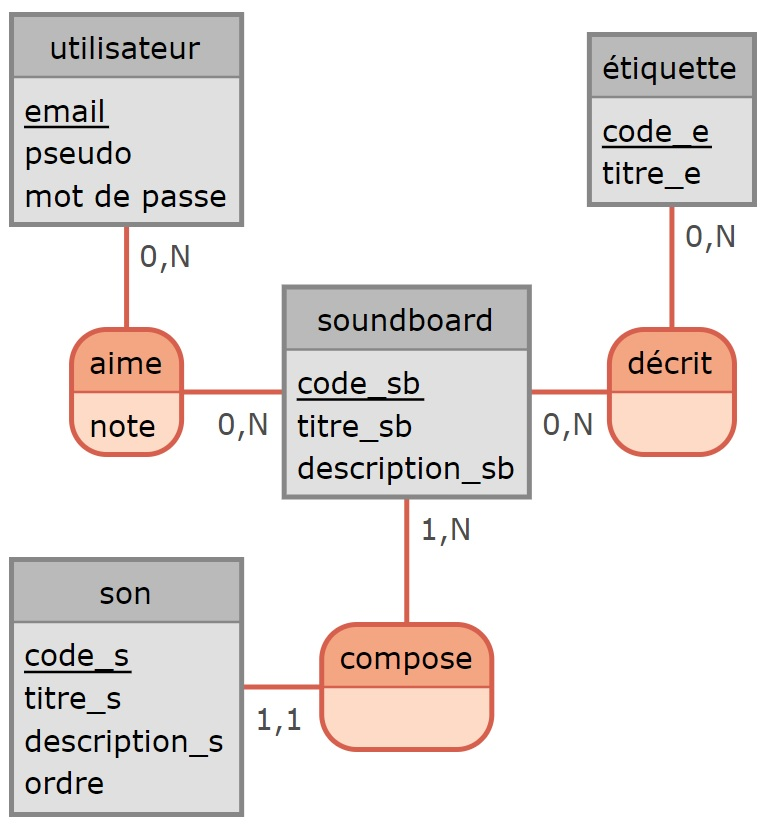
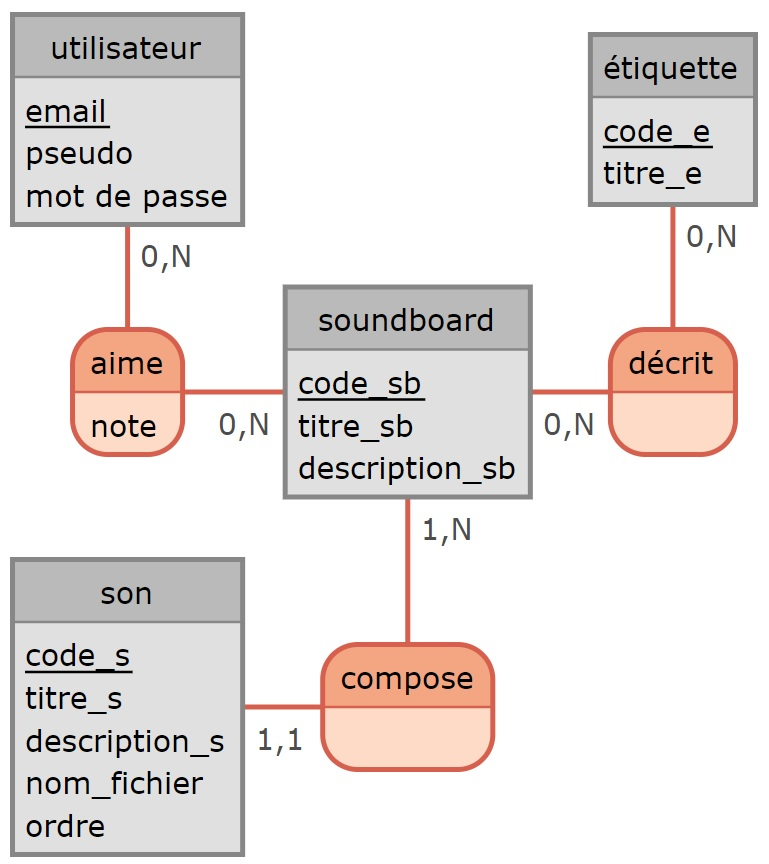
Add filename to sound entity

Changed region(s): [[0.0, 0.0303, 0.9675, 0.6659], [0.0, 0.6356, 0.6554, 0.9988], [0.749, 0.0303, 0.9987, 0.3027]]

diff --git a/docs/dico_des_donnees.md b/docs/dico_des_donnees.md
@@ -18,6 +18,7 @@
 |title|VARCHAR(128)|NOT NULL|Le titre du son|
 |description|TINYTEXT|DEFAULT NULL|La description du son|
 |order|INT|NOT NULL, UNSIGNED|L'ordre du son dans la soundboard|
+|filename|VARCHAR(256)|NOT NULL|Le nom du fichier physique du son|
 |soundboard_id|INT|PRIMARY KEY, NOT NULL|L'identifiant de la soundboard|
 |created_at|DATETIME|NOT NULL, DEFAULT CURRENT_TIMESTAMP|La date de création du son|
 |updated_at|DATETIME|NOT NULL, DEFAULT CURRENT_TIMESTAMP|La date de dernière modification du son|

diff --git a/docs/mcd/Soundboards.md b/docs/mcd/Soundboards.md
@@ -3,4 +3,4 @@
 **aime** (<ins>_email_</ins>, <ins>_code_sb_</ins>, note)  
 **soundboard** (<ins>code_sb</ins>, titre_sb, description_sb)  
 **décrit** (<ins>_code_e_</ins>, <ins>_code_sb_</ins>)  
-**son** (<ins>code_s</ins>, titre_s, description_s, ordre, _code_sb_)
+**son** (<ins>code_s</ins>, titre_s, description_s, nom_fichier, ordre, _code_sb_)
